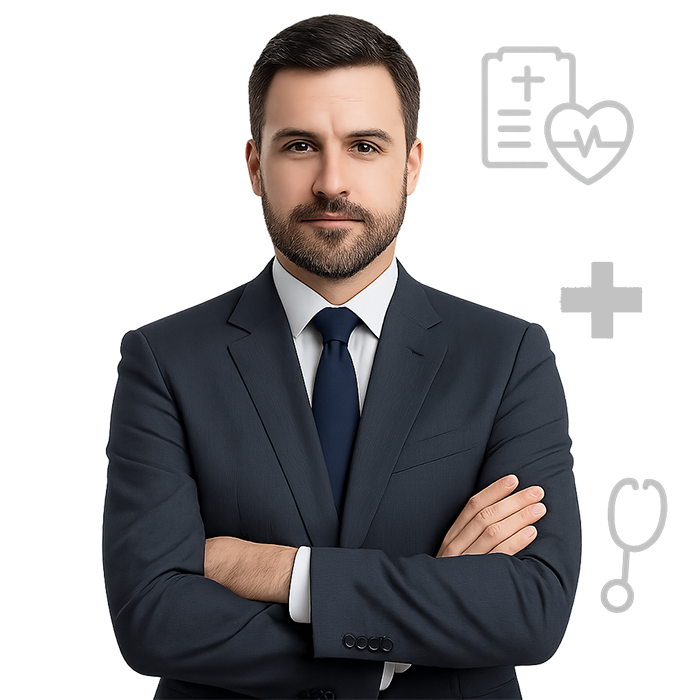
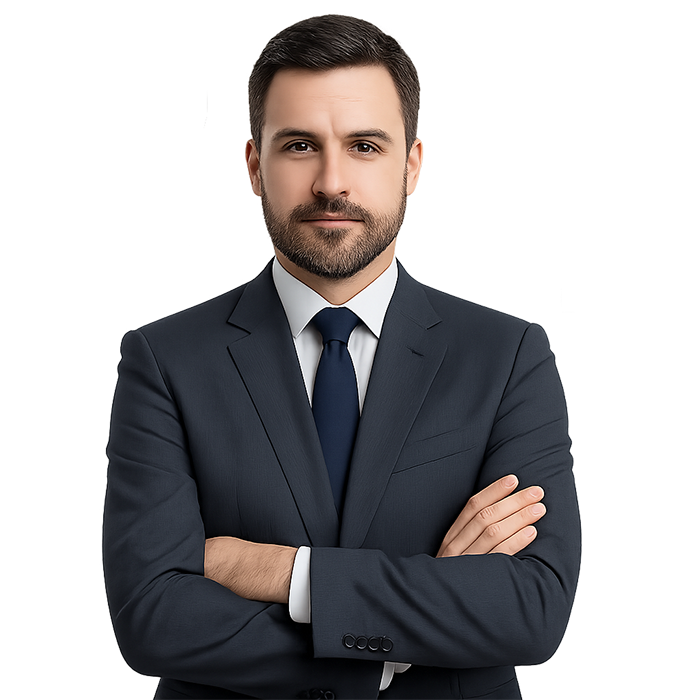
- make some texts real time with change language

Changed region(s): [[0.69, 0.06, 0.93, 0.27], [0.84, 0.66, 0.96, 0.9], [0.78, 0.36, 0.93, 0.48]]

diff --git a/lib/feature/doctors/ui/widgets/admin_user/doctor_details_widgets/doctor_details_section.dart b/lib/feature/doctors/ui/widgets/admin_user/doctor_details_widgets/doctor_details_section.dart
@@ -19,7 +19,7 @@ class DoctorDetailsSection extends StatelessWidget {
     return Container(
       padding: EdgeInsets.symmetric(
         vertical: HeightManager.h20,
-        horizontal: WidthManager.w20, 
+        horizontal: WidthManager.w20,
       ),
       decoration: BoxDecoration(
         color: ColorsManager.white,
@@ -40,16 +40,28 @@ class DoctorDetailsSection extends StatelessWidget {
         child: Column(
           crossAxisAlignment: CrossAxisAlignment.start,
           children: [
-            InfoTile(icon: Icons.email, label: 'Email'.tr(), value: doctor.email),
+            InfoTile(
+              icon: Icons.email,
+              label: 'Email'.tr(),
+              value: doctor.email,
+            ),
             SizedBox(height: HeightManager.h16),
 
-            InfoTile(icon: Icons.phone, label: 'Phone'.tr(), value: doctor.phone),
+            InfoTile(
+              icon: Icons.phone,
+              label: 'Phone'.tr(),
+              value: doctor.phone,
+            ),
             SizedBox(height: HeightManager.h16),
 
             InfoTile(
               icon: Icons.work_history,
               label: 'Experience'.tr(),
-              value: tr('years_experience', namedArgs: {'years': doctor.experience.toString()}),
+              value: plural(
+                'years_count',
+                doctor.experience,
+                namedArgs: {'count': doctor.experience.toString()},
+              ),
             ),
             SizedBox(height: HeightManager.h16),
 
@@ -70,27 +82,35 @@ class DoctorDetailsSection extends StatelessWidget {
                       ? Icons.male
                       : Icons.female,
               label: 'Gender'.tr(),
-              value: doctor.gender.toLowerCase().tr(),
+              value: doctor.gender.tr(),
             ),
           ],
         ),
       ),
     );
   }
- Widget _patientCountTile(BuildContext context, String doctorId) {
+
+  Widget _patientCountTile(BuildContext context, String doctorId) {
     return StreamBuilder<int>(
       stream: context.read<DoctorCubit>().getPatientsCountStream(doctorId),
       builder: (context, snapshot) {
         final count = snapshot.data ?? 0;
         return Container(
-          padding:  EdgeInsets.symmetric(vertical: HeightManager.h12, horizontal: WidthManager.w16),
+          padding: EdgeInsets.symmetric(
+            vertical: HeightManager.h12,
+            horizontal: WidthManager.w16,
+          ),
           decoration: BoxDecoration(
             color: ColorsManager.lightBlue,
             borderRadius: BorderRadius.circular(RadiusManager.r16),
           ),
           child: Row(
             children: [
-              const Icon(Icons.people, color: ColorsManager.primaryColor, size: 28),
+              const Icon(
+                Icons.people,
+                color: ColorsManager.primaryColor,
+                size: 28,
+              ),
               SizedBox(width: WidthManager.w16),
               Text(
                 'Patients Count'.tr(),

diff --git a/lib/feature/admin-home/ui/widgets/patients_department_see_all.dart b/lib/feature/admin-home/ui/widgets/patients_department_see_all.dart
@@ -14,13 +14,14 @@ class PatientsDepartmentSeeAll extends StatelessWidget {
 
   @override
   Widget build(BuildContext context) {
+    final _ = context.locale;
     // we use watch here to listen to the selectedDoctor state and rebuild the widget when it changes
     final selectedDoctor = context.watch<AdminHomeCubit>().selectedDoctor;
 
     return Row(
       children: [
         Text(
-          'Patients Department'.tr(),
+          tr('Patients_Department'),
           style: getSemiBoldTextStyle(
             fontSize: FontSizeManager.s18,
             color: ColorsManager.darkBlue,
@@ -38,7 +39,7 @@ class PatientsDepartmentSeeAll extends StatelessWidget {
             );
           },
           child: Text(
-            'See All'.tr(),
+            tr('See_All'),
             style: getRegularTextStyle(
               fontSize: FontSizeManager.s14,
               color: ColorsManager.primaryColor,

diff --git a/lib/feature/admin-home/ui/widgets/doctors_department_see_all.dart b/lib/feature/admin-home/ui/widgets/doctors_department_see_all.dart
@@ -13,10 +13,11 @@ class DoctorsDepartmentSeeAll extends StatelessWidget {
 
   @override
   Widget build(BuildContext context) {
+    final _ = context.locale;
     return Row(
       children: [
         Text(
-          'Doctors Department'.tr(),
+          tr('Doctors_Department'),
           style: getSemiBoldTextStyle(fontSize: FontSizeManager.s18, color: ColorsManager.darkBlue),
         ),
         const Spacer(),
@@ -25,7 +26,7 @@ class DoctorsDepartmentSeeAll extends StatelessWidget {
             context.pushNamed(Routes.allDoctorsScreen);
           },
           child: Text(
-            'See All'.tr(),
+            tr('See_All'),
             style: getRegularTextStyle(fontSize: FontSizeManager.s14, color: ColorsManager.primaryColor),
           ),
         ),

diff --git a/lib/core/widgets/home_top_widget.dart b/lib/core/widgets/home_top_widget.dart
@@ -44,7 +44,7 @@ class HomeTopWidget extends StatelessWidget {
         crossAxisAlignment: CrossAxisAlignment.start,
         children: [
           Text(
-            tr('hi_with_name', namedArgs: {'name': name}),
+            tr('hi_with_name', namedArgs: {'name': tr(name)}),
             style: getBoldTextStyle(
               fontSize: FontSizeManager.s18,
               color: ColorsManager.darkBlue,
@@ -54,7 +54,7 @@ class HomeTopWidget extends StatelessWidget {
           ),
           SizedBox(height: HeightManager.h6),
           Text(
-            subMessage.tr(),
+            tr(subMessage),
             style: getMediumTextStyle(
               fontSize: FontSizeManager.s13,
               color: ColorsManager.gray,

diff --git a/lib/feature/admin-home/ui/views/admin_home_screen.dart b/lib/feature/admin-home/ui/views/admin_home_screen.dart
@@ -12,7 +12,6 @@ class AdminHomeScreen extends StatelessWidget {
 
   @override
   Widget build(BuildContext context) {
-
     return Scaffold(
       backgroundColor: Colors.white,
       body: SafeArea(
@@ -27,7 +26,7 @@ class AdminHomeScreen extends StatelessWidget {
           child: Column(
             crossAxisAlignment: CrossAxisAlignment.start,
             children: [
-              const HomeTopWidget(name: 'Admin', subMessage: 'How Are you Today?',),
+              HomeTopWidget(name: 'Admin', subMessage: 'How Are you Today?',),
               const DoctorsBlueContainer(),
               SizedBox(height: HeightManager.h24),
               const DoctorsDepartmentSeeAll(),

diff --git a/lib/feature/admin-home/ui/widgets/doctors_blue_container.dart b/lib/feature/admin-home/ui/widgets/doctors_blue_container.dart
@@ -83,8 +83,8 @@ class DoctorsBlueContainer extends StatelessWidget {
           Positioned(
             // عيّن الموضع حسب اتجاه اللغة
             right:
-                context.locale.languageCode == 'ar' ? null : WidthManager.wm4,
-            left: context.locale.languageCode == 'ar' ? WidthManager.wm4 : null,
+                context.locale.languageCode == 'ar' ? null : WidthManager.wm16,
+            left: context.locale.languageCode == 'ar' ? WidthManager.wm16 : null,
             top: HeightManager.h20,
             child: Image.asset(
               AssetsManager.homeAdminImage,

diff --git a/lib/feature/admin-home/ui/widgets/patients_department/patients_department_bloc_builder.dart b/lib/feature/admin-home/ui/widgets/patients_department/patients_department_bloc_builder.dart
@@ -1,3 +1,4 @@
+import 'package:easy_localization/easy_localization.dart';
 import 'package:flutter/material.dart';
 import 'package:flutter_bloc/flutter_bloc.dart';
 import 'package:leuko_care/feature/admin-home/logic/cubit/admin_home_cubit.dart';
@@ -10,6 +11,7 @@ class PatientsDepartmentBlocBuilder extends StatelessWidget {
 
   @override
   Widget build(BuildContext context) {
+    final _ = context.locale;
     return BlocBuilder<AdminHomeCubit, AdminHomeState>(
       buildWhen:
           (previous, current) =>

diff --git a/lib/feature/admin-home/ui/widgets/doctor_department/doctor_department_bloc_builder.dart b/lib/feature/admin-home/ui/widgets/doctor_department/doctor_department_bloc_builder.dart
@@ -1,3 +1,4 @@
+import 'package:easy_localization/easy_localization.dart';
 import 'package:flutter/material.dart';
 import 'package:flutter_bloc/flutter_bloc.dart';
 import 'package:leuko_care/feature/admin-home/logic/cubit/admin_home_cubit.dart';
@@ -10,6 +11,7 @@ class DoctorsDepartmentBlocBuilder extends StatelessWidget {
 
   @override
   Widget build(BuildContext context) {
+    final _ = context.locale;
     return BlocBuilder<AdminHomeCubit, AdminHomeState>(
       buildWhen:
           (previous, current) =>

diff --git a/lib/core/widgets/info_tile.dart b/lib/core/widgets/info_tile.dart
@@ -62,6 +62,7 @@ class InfoTile extends StatelessWidget {
                       style: getRegularTextStyle(
                         fontSize: FontSizeManager.s13,
                         color: ColorsManager.black87,
+                        height: isMultiLine ? HeightManager.h1_3:0
                       ),
                       maxLines: isMultiLine ? null : 1,
                       overflow: isMultiLine

diff --git a/lib/feature/patients/ui/views/patient_user/patient_profile_screen.dart b/lib/feature/patients/ui/views/patient_user/patient_profile_screen.dart
@@ -104,7 +104,7 @@ class PatientProfileScreen extends StatelessWidget {
             ProfileInfoRow(
               icon: Icons.cake,
               title: 'Age'.tr(),
-              value: age.toString(),
+              value: plural('years_count', age, namedArgs: {'count': age.toString()}),
             ),
             ProfileInfoRow(
               icon:

diff --git a/lib/core/resources/sizes_util_manager.dart b/lib/core/resources/sizes_util_manager.dart
@@ -32,7 +32,7 @@ class RadiusManager {
 }
 
 class WidthManager {
-  static double wm4 = SizeUtil.setWidth(-4.0);
+  static double wm16 = SizeUtil.setWidth(-16.0);
   static double w0_9 = SizeUtil.setWidth(0.9);
   static double w1 = SizeUtil.setWidth(1.0);
   static double w1_5 = SizeUtil.setWidth(1.5);

diff --git a/lib/feature/doctors/ui/widgets/doctor_user/medical_tips_section.dart b/lib/feature/doctors/ui/widgets/doctor_user/medical_tips_section.dart
@@ -12,6 +12,7 @@ class MedicalTipsSection extends StatelessWidget {
 
   @override
   Widget build(BuildContext context) {
+    final _ = context.locale;
     final tips = [
       {
         'icon': Icons.water_drop,
